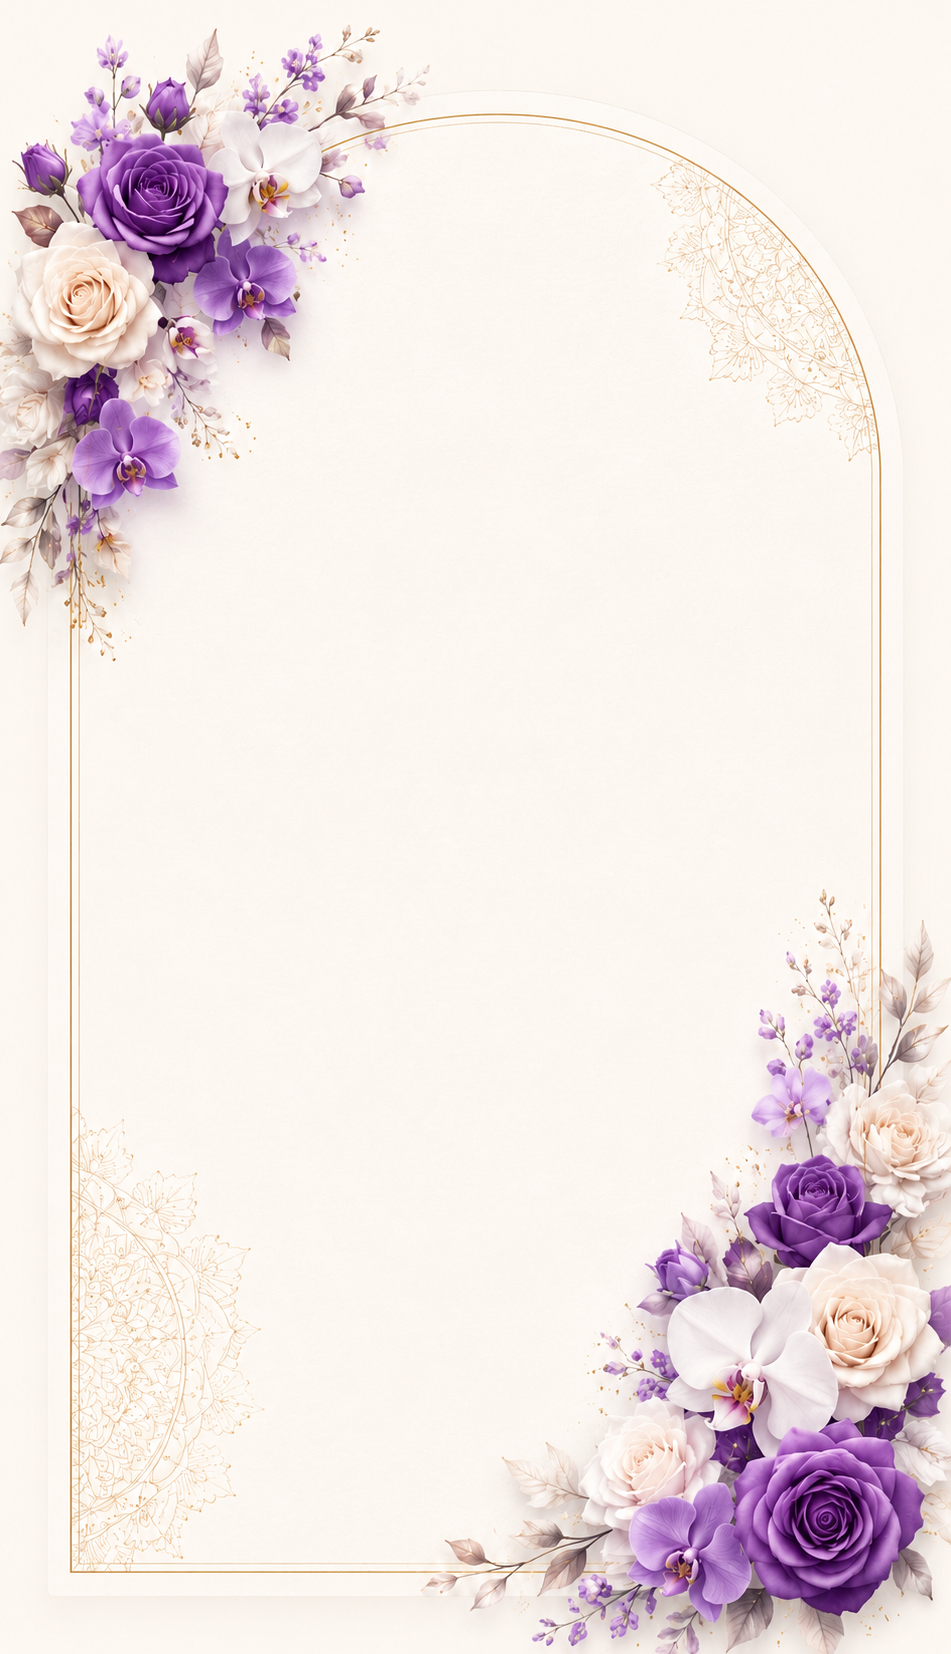
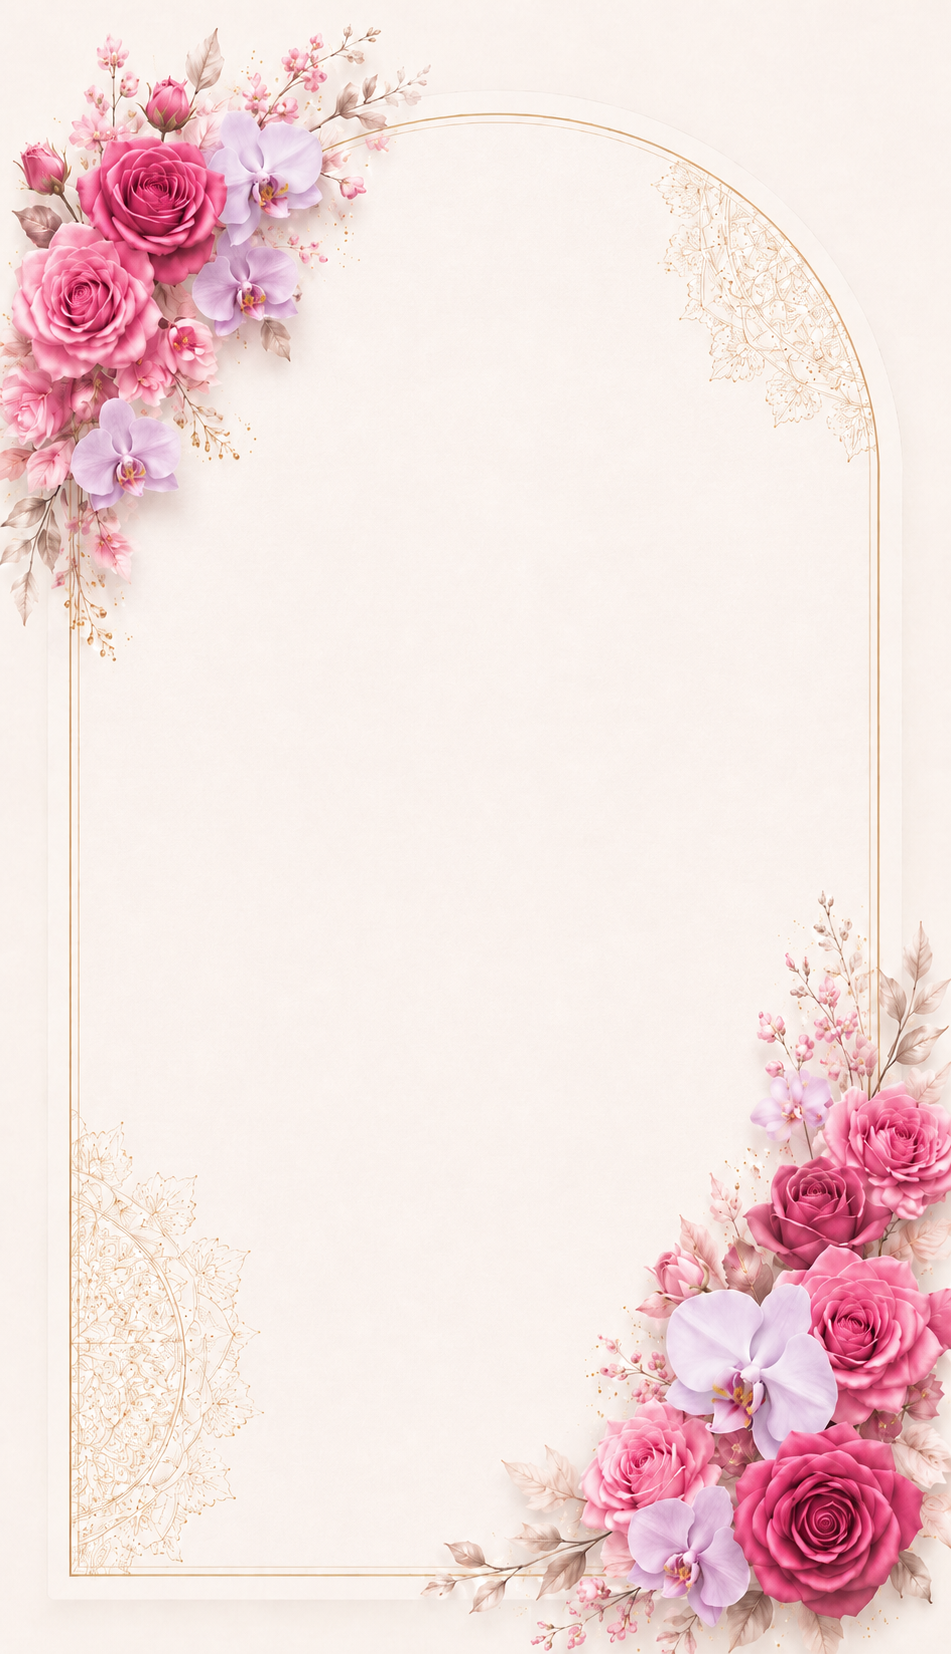
l

Changed region(s): [[0.0, 0.0, 1.0, 1.0]]

diff --git a/src/App.tsx b/src/App.tsx
@@ -77,7 +77,7 @@ function FloatingPetals({ disabled = false }: { disabled?: boolean }) {
       return;
     }
 
-    const colors = ["#F3E8FF", "#E9D5FF", "#D8B4FE", "#C084FC"];
+    const colors = ["#F3E8FF", "#E9D5FF", "#D8B4FE", "#C084FC", "#FCE7F3", "#FBCFE8", "#F472B6", "#EC4899"];
     const petalCount = isMobile ? 6 : 10;
     const newPetals = Array.from({ length: petalCount }).map((_, i) => ({
       id: i,
@@ -102,7 +102,7 @@ function FloatingPetals({ disabled = false }: { disabled?: boolean }) {
       {petals.map((petal) => (
         <motion.div
           key={petal.id}
-          className="absolute drop-shadow-[0_2px_6px_rgba(168,85,247,0.5)]"
+          className="absolute drop-shadow-[0_2px_6px_rgba(236,72,153,0.4)]"
           style={{ color: petal.color }}
           initial={{
             x: `${petal.x}vw`,
@@ -173,9 +173,9 @@ function CountdownTimer() {
           className="relative group"
         >
           {/* Ornamental Frame container */}
-          <div className="relative w-[4.5rem] h-[6.5rem] sm:w-20 sm:h-28 md:w-32 md:h-44 bg-white rounded-t-full shadow-[0_15px_35px_-10px_rgba(0,0,0,0.08)] border border-theme-100/60 flex flex-col items-center justify-center overflow-hidden transition-transform duration-700 group-hover:-translate-y-3">
+          <div className="relative w-[4.5rem] h-[6.5rem] sm:w-20 sm:h-28 md:w-32 md:h-44 bg-white rounded-t-full shadow-[0_15px_35px_-10px_rgba(0,0,0,0.08)] border border-pink-100/60 flex flex-col items-center justify-center overflow-hidden transition-transform duration-700 group-hover:-translate-y-3">
             <div className="absolute top-0 right-0 opacity-[0.03] paper-grain w-full h-full pointer-events-none" />
-            <div className="absolute inset-1.5 sm:inset-2 md:inset-3 border-[0.5px] border-theme-300/50 rounded-t-full pointer-events-none" />
+            <div className="absolute inset-1.5 sm:inset-2 md:inset-3 border-[0.5px] border-pink-300/50 rounded-t-full pointer-events-none" />
 
             {/* The Number */}
             <span className="text-2xl sm:text-3xl md:text-5xl font-playball text-theme-800 leading-none relative z-10 drop-shadow-sm mt-3 sm:mt-4 md:mt-6 transition-transform duration-500 group-hover:scale-110">
@@ -190,7 +190,7 @@ function CountdownTimer() {
             </div>
 
             {/* Bottom decoration */}
-            <div className="absolute bottom-2 sm:bottom-3 md:bottom-4 left-1/2 -translate-x-1/2 w-[3px] h-[3px] sm:w-1 sm:h-1 md:w-1.5 md:h-1.5 rotate-45 bg-theme-300" />
+            <div className="absolute bottom-2 sm:bottom-3 md:bottom-4 left-1/2 -translate-x-1/2 w-[3px] h-[3px] sm:w-1 sm:h-1 md:w-1.5 md:h-1.5 rotate-45 bg-pink-400" />
           </div>
         </motion.div>
       ))}
@@ -212,7 +212,7 @@ function WeddingEnvelope({ onOpen }: { onOpen: () => void }) {
     >
       {/* Title Section */}
       <motion.div initial={{ opacity: 0, y: 20 }} animate={{ opacity: 1, y: 0 }} className="text-center mb-10">
-        <span className="inline-block px-5 py-2 rounded-full bg-[#FAF5FF] border border-[#E9D5FF] text-[10px] uppercase tracking-[0.5em] text-[#7E22CE] font-bold mb-6">
+        <span className="inline-block px-5 py-2 rounded-full bg-pink-50 border border-pink-200 text-[10px] uppercase tracking-[0.5em] text-pink-600 font-bold mb-6">
           Save the Date
         </span>
         <h1 className="font-cinzel text-4xl md:text-5xl text-theme-800 mb-4 tracking-tight">
@@ -242,7 +242,7 @@ function WeddingEnvelope({ onOpen }: { onOpen: () => void }) {
         <motion.div
           whileHover={{ scale: 1.1, rotate: -6 }}
           whileTap={{ scale: 0.9 }}
-          className="absolute left-1/2 top-1/2 -translate-x-1/2 -translate-y-1/2 z-40 w-28 h-28 rounded-full bg-gradient-to-br from-[#D946EF] via-[#A855F7] to-[#7E22CE] shadow-[0_20px_45px_-10px_rgba(126,34,206,0.65)] border-[5px] border-[#581C87] flex items-center justify-center pointer-events-auto"
+          className="absolute left-1/2 top-1/2 -translate-x-1/2 -translate-y-1/2 z-40 w-28 h-28 rounded-full bg-gradient-to-br from-[#D946EF] via-[#A855F7] to-[#7E22CE] shadow-[0_20px_45px_-10px_rgba(236,72,153,0.6)] border-[5px] border-[#BE185D] flex items-center justify-center pointer-events-auto"
         >
           <div className="absolute inset-1.5 rounded-full border border-[#A855F7]/50" />
           <div className="text-center relative z-10">
@@ -252,7 +252,7 @@ function WeddingEnvelope({ onOpen }: { onOpen: () => void }) {
           </div>
         </motion.div>
 
-        <div className="absolute bottom-6 left-1/2 -translate-x-1/2 z-40 text-[8px] uppercase tracking-[0.45em] text-[#6B21A8]/80 font-bold bg-white/80 backdrop-blur-md px-6 py-2.5 rounded-full border border-[#C084FC]/80 shadow-sm opacity-0 group-hover:opacity-100 transition-opacity duration-300 pointer-events-none">
+        <div className="absolute bottom-6 left-1/2 -translate-x-1/2 z-40 text-[8px] uppercase tracking-[0.45em] text-pink-600/90 font-bold bg-white/80 backdrop-blur-md px-6 py-2.5 rounded-full border border-pink-200/80 shadow-sm opacity-0 group-hover:opacity-100 transition-opacity duration-300 pointer-events-none">
           Tap To Open
         </div>
       </div>
@@ -418,7 +418,7 @@ export default function WeddingInvitation() {
                 className="relative z-10 w-full max-w-[420px] min-h-[500px] h-[85vh] md:h-[80vh] md:bg-[#ffffff] md:rounded-t-full md:shadow-[0_20px_60px_-15px_rgba(0,0,0,0.08)] md:border md:border-theme-100 flex flex-col items-center overflow-hidden p-6 pt-12 md:p-10 md:pt-16"
               >
                 {/* Arch outline decoration */}
-                <div className="absolute inset-3 sm:inset-5 border-[0.5px] border-theme-400/40 rounded-t-full pointer-events-none hidden md:block" />
+                <div className="absolute inset-3 sm:inset-5 border-[0.5px] border-pink-300/45 rounded-t-full pointer-events-none hidden md:block" />
                 <div className="absolute inset-4 sm:inset-6 border border-theme-200/40 rounded-t-full pointer-events-none hidden md:block" />
 
                 <motion.img
@@ -455,7 +455,7 @@ export default function WeddingInvitation() {
                       initial={{ scale: 0 }}
                       animate={{ scale: 1 }}
                       transition={{ delay: 1.2, duration: 0.5 }}
-                      className="font-playball text-3xl md:text-5xl text-theme-500 italic font-light my-2 md:my-4 tracking-widest"
+                      className="font-playball text-3xl md:text-5xl text-pink-500 italic font-light my-2 md:my-4 tracking-widest"
                     >
                       &
                     </motion.div>
@@ -476,9 +476,9 @@ export default function WeddingInvitation() {
                     className="mt-8 md:mt-auto pb-4 w-full flex flex-col items-center"
                   >
                     <div className="flex items-center justify-center gap-4 mb-6 opacity-70 w-full px-8 hidden md:flex">
-                      <div className="h-px w-full bg-gradient-to-r from-transparent via-theme-300 to-theme-400" />
-                      <div className="w-1.5 h-1.5 rotate-45 bg-theme-500 shrink-0" />
-                      <div className="h-px w-full bg-gradient-to-l from-transparent via-theme-300 to-theme-400" />
+                      <div className="h-px w-full bg-gradient-to-r from-transparent via-pink-300 to-theme-400" />
+                      <div className="w-1.5 h-1.5 rotate-45 bg-pink-500 shrink-0" />
+                      <div className="h-px w-full bg-gradient-to-l from-transparent via-pink-300 to-theme-400" />
                     </div>
                     <div className="font-cinzel space-y-2">
                       <p className="text-lg md:text-base text-stone-700 tracking-[0.2em] md:tracking-[0.3em] font-bold">30 JULY 2026</p>
@@ -499,7 +499,7 @@ export default function WeddingInvitation() {
                   <motion.div
                     animate={{ y: [-40, 60] }}
                     transition={{ duration: 1.5, repeat: Infinity, ease: "linear" }}
-                    className="w-full h-8 bg-theme-500"
+                    className="w-full h-8 bg-gradient-to-b from-pink-500 to-theme-500"
                   />
                 </div>
               </motion.div>
@@ -541,8 +541,8 @@ export default function WeddingInvitation() {
                   transition={{ duration: 0.8, ease: "easeOut" }}
                   className="relative mb-10 md:mb-14"
                 >
-                  <div className="absolute -inset-3 md:-inset-4 rounded-[2rem] bg-theme-200/35 blur-xl" />
-                  <div className="relative bg-white/90 p-2.5 md:p-3 rounded-[2rem] border border-theme-200 shadow-[0_20px_50px_-20px_rgba(168,85,247,0.45)]">
+                  <div className="absolute -inset-3 md:-inset-4 rounded-[2rem] bg-pink-200/35 blur-xl" />
+                  <div className="relative bg-white/90 p-2.5 md:p-3 rounded-[2rem] border border-pink-200 shadow-[0_20px_50px_-20px_rgba(236,72,153,0.35)]">
                     <InviteImage
                       src={brideGroomImage}
                       alt="Bride and groom wedding illustration"
@@ -561,7 +561,7 @@ export default function WeddingInvitation() {
                     viewport={{ once: true }}
                     className="relative bg-white w-full max-w-[320px] p-6 md:p-10 shadow-[0_30px_60px_-15px_rgba(0,0,0,0.1)] border border-theme-100/50 rounded-tl-[100px] rounded-br-[100px] md:rounded-tl-[130px] md:rounded-br-[130px] overflow-hidden group flex flex-col justify-center text-center items-center"
                   >
-                    <div className="absolute inset-2 border border-theme-200/50 rounded-tl-[90px] rounded-br-[90px] md:rounded-tl-[120px] md:rounded-br-[120px] pointer-events-none" />
+                    <div className="absolute inset-2 border border-pink-200/60 rounded-tl-[90px] rounded-br-[90px] md:rounded-tl-[120px] md:rounded-br-[120px] pointer-events-none" />
                     <div className="absolute inset-0 opacity-[0.02] paper-grain pointer-events-none" />
                     <div className="relative z-10 space-y-4 py-8 md:py-12">
                       <div className="space-y-2">
@@ -580,7 +580,7 @@ export default function WeddingInvitation() {
                       whileInView={{ scale: 1, rotate: 0 }}
                       viewport={{ once: true }}
                       transition={{ delay: 0.3, type: "spring", stiffness: 100 }}
-                      className="w-16 h-16 md:w-24 md:h-24 bg-gradient-to-br from-theme-500 to-theme-700 rounded-full flex items-center justify-center shadow-xl shadow-theme-900/20 border-4 border-[#FCFAFF]"
+                      className="w-16 h-16 md:w-24 md:h-24 bg-gradient-to-br from-pink-500 to-theme-600 rounded-full flex items-center justify-center shadow-xl shadow-pink-500/10 border-4 border-[#FCFAFF]"
                     >
                       <span className="text-3xl md:text-5xl font-playball text-white md:-mt-1 drop-shadow-md">&</span>
                     </motion.div>
@@ -595,7 +595,7 @@ export default function WeddingInvitation() {
                     transition={{ delay: 0.1 }}
                     className="relative bg-white w-full max-w-[320px] p-6 md:p-10 shadow-[0_30px_60px_-15px_rgba(0,0,0,0.1)] border border-theme-100/50 rounded-tr-[100px] rounded-bl-[100px] md:rounded-tr-[130px] md:rounded-bl-[130px] overflow-hidden group flex flex-col justify-center text-center items-center md:mt-24"
                   >
-                    <div className="absolute inset-2 border border-theme-200/50 rounded-tr-[90px] rounded-bl-[90px] md:rounded-tr-[120px] md:rounded-bl-[120px] pointer-events-none" />
+                    <div className="absolute inset-2 border border-pink-200/60 rounded-tr-[90px] rounded-bl-[90px] md:rounded-tr-[120px] md:rounded-bl-[120px] pointer-events-none" />
                     <div className="absolute inset-0 opacity-[0.02] paper-grain pointer-events-none" />
                     <div className="relative z-10 space-y-4 py-8 md:py-12">
                       <div className="space-y-2">
@@ -637,18 +637,18 @@ export default function WeddingInvitation() {
                     </div>
 
                     <div className="flex flex-col items-center flex-1">
-                      <Clock className="w-6 h-6 md:w-8 md:h-8 text-theme-500 mb-4 opacity-80" />
+                      <Clock className="w-6 h-6 md:w-8 md:h-8 text-pink-500 mb-4 opacity-80" />
                       <p className="text-[9px] md:text-[10px] uppercase tracking-[0.3em] md:tracking-[0.4em] text-stone-400 font-bold mb-3">The Time</p>
                       <p className="font-cinzel text-xl md:text-3xl text-theme-900 tracking-widest font-bold whitespace-nowrap">10:00 AM</p>
-                      <p className="font-cinzel text-xs md:text-sm text-theme-600 tracking-[0.2em] mt-3 uppercase">To 04:30 PM</p>
+                      <p className="font-cinzel text-xs md:text-sm text-pink-600 tracking-[0.2em] mt-3 uppercase">To 04:30 PM</p>
                     </div>
                   </div>
 
                   <div className="pt-8 w-full px-4">
                     <div className="relative inline-flex items-center justify-center w-full max-w-md mx-auto group">
                       <div className="absolute inset-0 bg-theme-100 blur-lg opacity-40 group-hover:opacity-60 transition-opacity" />
-                      <p className="relative text-theme-800 bg-white shadow-[0_4px_20px_-5px_rgba(0,0,0,0.05)] text-[9px] md:text-[11px] font-bold tracking-[0.3em] md:tracking-[0.4em] uppercase px-6 lg:px-10 py-4 lg:py-5 rounded-full border border-theme-200 flex items-center justify-center gap-4 w-full md:w-auto">
-                        <span className="w-1.5 h-1.5 rotate-45 bg-theme-500 shrink-0" />
+                      <p className="relative text-theme-800 bg-white shadow-[0_4px_20px_-5px_rgba(0,0,0,0.05)] text-[9px] md:text-[11px] font-bold tracking-[0.3em] md:tracking-[0.4em] uppercase px-6 lg:px-10 py-4 lg:py-5 rounded-full border border-pink-200 flex items-center justify-center gap-4 w-full md:w-auto">
+                        <span className="w-1.5 h-1.5 rotate-45 bg-pink-500 shrink-0" />
                         <span className="whitespace-nowrap">Poruwa Ceremony at 10:15 AM</span>
                         <span className="w-1.5 h-1.5 rotate-45 bg-theme-500 shrink-0" />
                       </p>
@@ -683,11 +683,11 @@ export default function WeddingInvitation() {
                   </div>
 
                   <h2 className="font-cinzel text-3xl md:text-5xl text-theme-900 mb-8 relative z-10 tracking-widest font-bold drop-shadow-sm px-4 leading-[1.4]">
-                    Wait for the <span className="font-playball text-theme-700 italic lowercase tracking-normal text-4xl md:text-7xl ml-2">magic</span>
+                    Wait for the <span className="font-playball text-pink-500 italic lowercase tracking-normal text-4xl md:text-7xl ml-2">magic</span>
                   </h2>
 
-                  <p className="text-[10px] md:text-[11px] uppercase tracking-[0.5em] text-theme-600 font-bold bg-white/80 backdrop-blur-sm px-8 py-3 rounded-full border border-theme-200/50 inline-flex items-center gap-3 shadow-[0_4px_15px_-5px_rgba(0,0,0,0.05)] relative z-10">
-                    <span className="w-1 h-1 rounded-full bg-theme-400 animate-pulse" />
+                  <p className="text-[10px] md:text-[11px] uppercase tracking-[0.5em] text-pink-600 font-bold bg-white/80 backdrop-blur-sm px-8 py-3 rounded-full border border-pink-200/50 inline-flex items-center gap-3 shadow-[0_4px_15px_-5px_rgba(0,0,0,0.05)] relative z-10">
+                    <span className="w-1 h-1 rounded-full bg-pink-400 animate-pulse" />
                     Counting Down
                     <span className="w-1 h-1 rounded-full bg-theme-400 animate-pulse" />
                   </p>
@@ -713,8 +713,8 @@ export default function WeddingInvitation() {
                   >
                     <div className="flex flex-col items-start gap-4">
                       <div className="flex items-center gap-4">
-                        <div className="w-8 h-px bg-theme-400" />
-                        <span className="text-theme-600 font-bold uppercase tracking-[0.4em] text-[9px] md:text-[11px]">The Venue</span>
+                        <div className="w-8 h-px bg-pink-400" />
+                        <span className="text-pink-600 font-bold uppercase tracking-[0.4em] text-[9px] md:text-[11px]">The Venue</span>
                       </div>
                       <h2 className="font-playball text-[3.5rem] sm:text-[4rem] md:text-[4rem] text-theme-900 leading-[1] drop-shadow-sm ml-[-4px]">
                         Grand Guardian Ratnapura
@@ -725,8 +725,8 @@ export default function WeddingInvitation() {
                       <div className="absolute left-0 top-0 w-px h-full bg-gradient-to-b from-theme-300 to-transparent" />
 
                       <div className="pl-8 space-y-4">
-                        <div className="inline-flex items-center justify-center w-10 h-10 rounded-full bg-white shadow-sm border border-theme-100 absolute -left-5 top-0">
-                          <MapPin className="w-4 h-4 text-theme-500" />
+                        <div className="inline-flex items-center justify-center w-10 h-10 rounded-full bg-white shadow-sm border border-pink-100 absolute -left-5 top-0">
+                          <MapPin className="w-4 h-4 text-pink-500" />
                         </div>
                         <p className="text-lg md:text-xl text-stone-700 font-cinzel font-medium leading-relaxed tracking-wide">
                           Ratnapura,<br /> Sri Lanka.
@@ -741,7 +741,7 @@ export default function WeddingInvitation() {
                     <div className="pt-8 w-full md:w-auto">
                       <button
                         onClick={() => window.open('https://maps.app.goo.gl/1jamDdhCgKfxaLRz5', '_blank')}
-                        className="w-full md:w-auto flex items-center justify-center gap-4 bg-[#A855F7] text-white px-10 py-5 rounded-full font-bold uppercase tracking-[0.2em] text-[10px] md:text-xs hover:bg-[#7E22CE] hover:shadow-xl hover:shadow-[#7E22CE]/20 transition-all duration-300 group"
+                        className="w-full md:w-auto flex items-center justify-center gap-4 bg-gradient-to-r from-pink-500 to-[#9333EA] text-white px-10 py-5 rounded-full font-bold uppercase tracking-[0.2em] text-[10px] md:text-xs hover:from-pink-600 hover:to-[#7E22CE] hover:shadow-xl hover:shadow-pink-500/20 transition-all duration-300 group"
                       >
                         <MapPin className="w-4 h-4 group-hover:-translate-y-1 transition-transform duration-300" />
                         Live Location
@@ -756,7 +756,7 @@ export default function WeddingInvitation() {
                     viewport={{ once: true }}
                     className="relative w-full max-w-[450px] mx-auto aspect-[4/5] md:aspect-[3/4] rounded-t-full rounded-b-[2rem] shadow-[0_30px_60px_-15px_rgba(0,0,0,0.15)] border-[12px] border-white bg-theme-100 overflow-hidden group"
                   >
-                    <div className="absolute inset-0 border border-theme-200 rounded-t-full rounded-b-[1.5rem] pointer-events-none z-10" />
+                    <div className="absolute inset-0 border border-pink-200 rounded-t-full rounded-b-[1.5rem] pointer-events-none z-10" />
 
                     {/* The Maps iframe */}
                     <div className="absolute inset-0 w-full h-full scale-[1.2] group-hover:scale-[1.15] transition-transform duration-[2s]">
@@ -775,7 +775,7 @@ export default function WeddingInvitation() {
                     {/* Elegant fade overlay at bottom */}
                     <div className="absolute inset-x-0 bottom-0 bg-gradient-to-t from-white via-white/80 to-transparent h-32 pointer-events-none z-10 flex items-end justify-center pb-6">
                       <p className="text-[8px] uppercase tracking-widest text-stone-500 font-bold bg-white/90 px-5 py-2 rounded-full shadow-sm backdrop-blur-md inline-flex items-center gap-2">
-                        <span className="w-1.5 h-1.5 rounded-full bg-theme-400 animate-pulse" />
+                        <span className="w-1.5 h-1.5 rounded-full bg-pink-400 animate-pulse" />
                         View on Map
                       </p>
                     </div>
@@ -800,15 +800,15 @@ export default function WeddingInvitation() {
                     viewport={{ once: true }}
                     className="flex flex-col items-center"
                   >
-                    <div className="inline-flex items-center justify-center w-16 h-16 rounded-full bg-theme-100/50 mb-8 mt-4 shadow-sm border border-theme-200/50">
-                      <Sparkles className="w-8 h-8 text-theme-500" />
+                    <div className="inline-flex items-center justify-center w-16 h-16 rounded-full bg-pink-100/50 mb-8 mt-4 shadow-sm border border-pink-200/50">
+                      <Sparkles className="w-8 h-8 text-pink-500" />
                     </div>
 
                     <div className="mt-12 md:mt-16 space-y-6 flex flex-col items-center relative w-full">
                       <div className="absolute top-1/2 left-1/2 -translate-x-1/2 -translate-y-1/2 font-playball text-[22vw] md:text-[220px] text-theme-100/40 whitespace-nowrap pointer-events-none z-0 select-none">
                         Thank You
                       </div>
-                      <p className="text-[9px] md:text-[11px] uppercase tracking-[0.8em] text-theme-600 font-bold relative z-10 bg-[#FCFAFF] px-6 py-2 rounded-full border border-theme-100/50 shadow-sm">With Love</p>
+                      <p className="text-[9px] md:text-[11px] uppercase tracking-[0.8em] text-pink-600 font-bold relative z-10 bg-[#FCFAFF] px-6 py-2 rounded-full border border-pink-200/50 shadow-sm">With Love</p>
                       <h3 className="font-playball text-[3.2rem] sm:text-6xl md:text-8xl text-theme-900 relative z-10 drop-shadow-sm px-4 pt-4 leading-none">Vinod & Thakshila</h3>
 
                       <motion.img
@@ -853,7 +853,7 @@ export default function WeddingInvitation() {
           background: #FCFAFF;
         }
         ::-webkit-scrollbar-thumb {
-          background: #C084FC;
+          background: #EC4899;
           border-radius: 10px;
         }
       `}} />

diff --git a/src/index.css b/src/index.css
@@ -119,7 +119,7 @@ body {
 .website-shell {
   background:
     radial-gradient(circle at 18% 14%, rgba(168, 85, 247, 0.12), transparent 38%),
-    radial-gradient(circle at 84% 72%, rgba(168, 85, 247, 0.10), transparent 42%),
+    radial-gradient(circle at 84% 72%, rgba(236, 72, 153, 0.08), transparent 42%),
     linear-gradient(180deg, #FFFFF0 0%, #FFFFF0 42%, #FFFFF0 100%);
 }
 
@@ -132,14 +132,14 @@ body {
   position: absolute;
   inset: 0;
   background:
-    radial-gradient(circle at 20% 25%, rgba(168, 85, 247, 0.12), transparent 35%),
+    radial-gradient(circle at 20% 25%, rgba(236, 72, 153, 0.10), transparent 35%),
     radial-gradient(circle at 78% 75%, rgba(168, 85, 247, 0.10), transparent 38%);
 }
 
 .paper-grain {
   background-image:
     radial-gradient(circle at 12% 18%, rgba(255, 255, 255, 0.85) 0.5px, transparent 0.8px),
-    radial-gradient(circle at 78% 42%, rgba(168, 85, 247, 0.15) 0.6px, transparent 0.9px),
+    radial-gradient(circle at 78% 42%, rgba(236, 72, 153, 0.15) 0.6px, transparent 0.9px),
     radial-gradient(circle at 42% 76%, rgba(168, 85, 247, 0.1) 0.5px, transparent 0.8px);
   background-size: 9px 9px, 15px 15px, 18px 18px;
 }
@@ -147,8 +147,8 @@ body {
 .paper-grain-strong {
   background-image:
     radial-gradient(circle at 22% 24%, rgba(255, 255, 255, 0.88) 0.55px, transparent 0.85px),
-    radial-gradient(circle at 70% 64%, rgba(168, 85, 247, 0.15) 0.65px, transparent 0.95px),
-    linear-gradient(180deg, rgba(252, 250, 255, 0.75), rgba(252, 250, 255, 0.8));
+    radial-gradient(circle at 70% 64%, rgba(236, 72, 153, 0.12) 0.65px, transparent 0.95px),
+    linear-gradient(180deg, rgba(253, 242, 248, 0.75), rgba(252, 250, 255, 0.8));
   background-size: 8px 8px, 14px 14px, 100% 100%;
 }
 